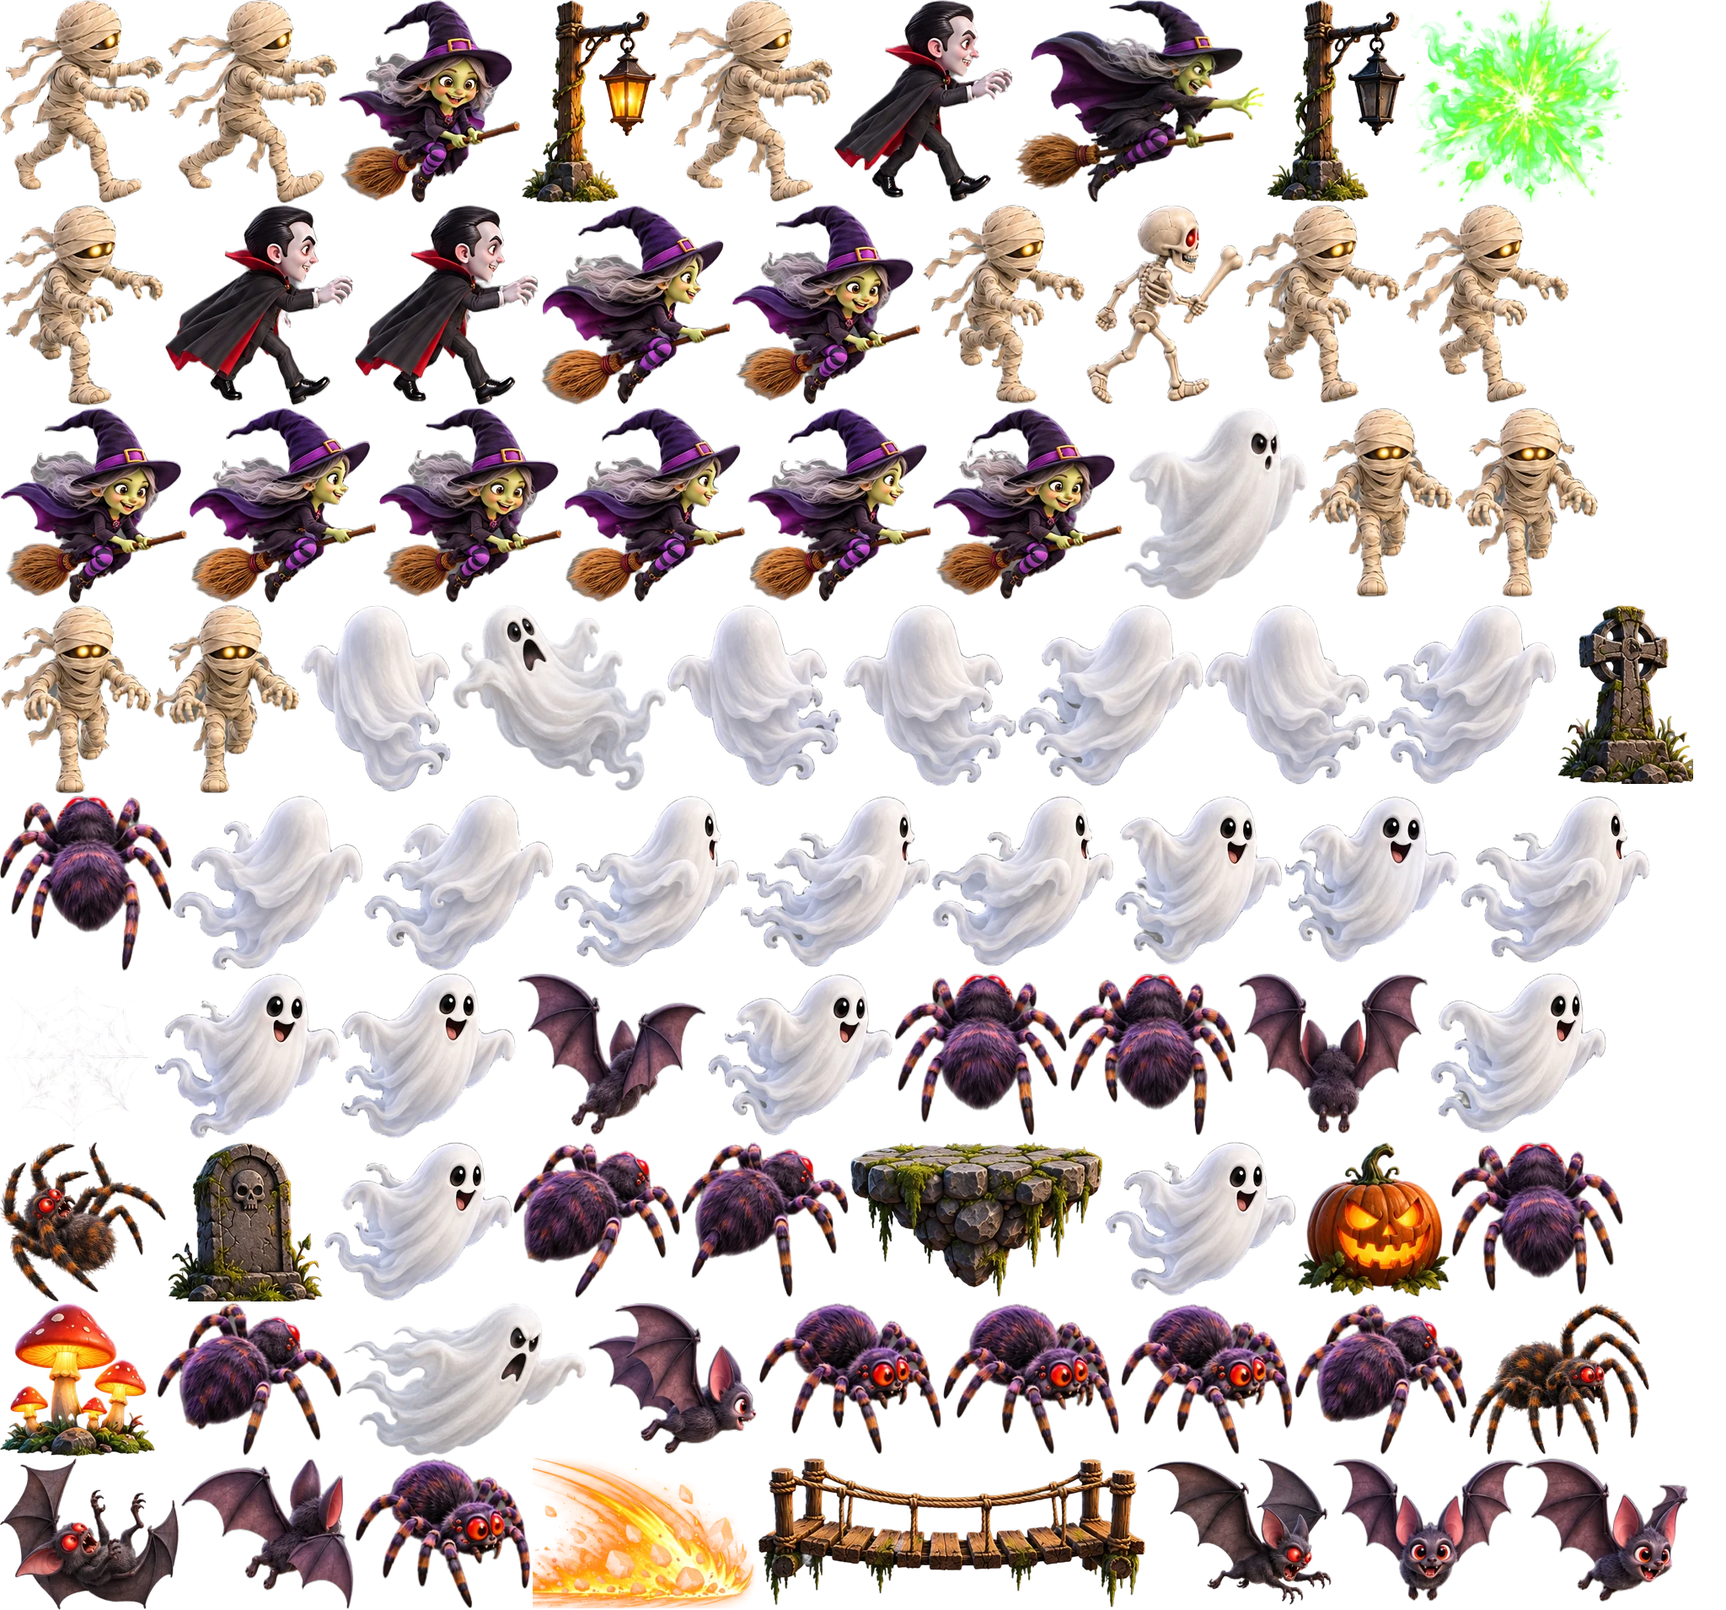
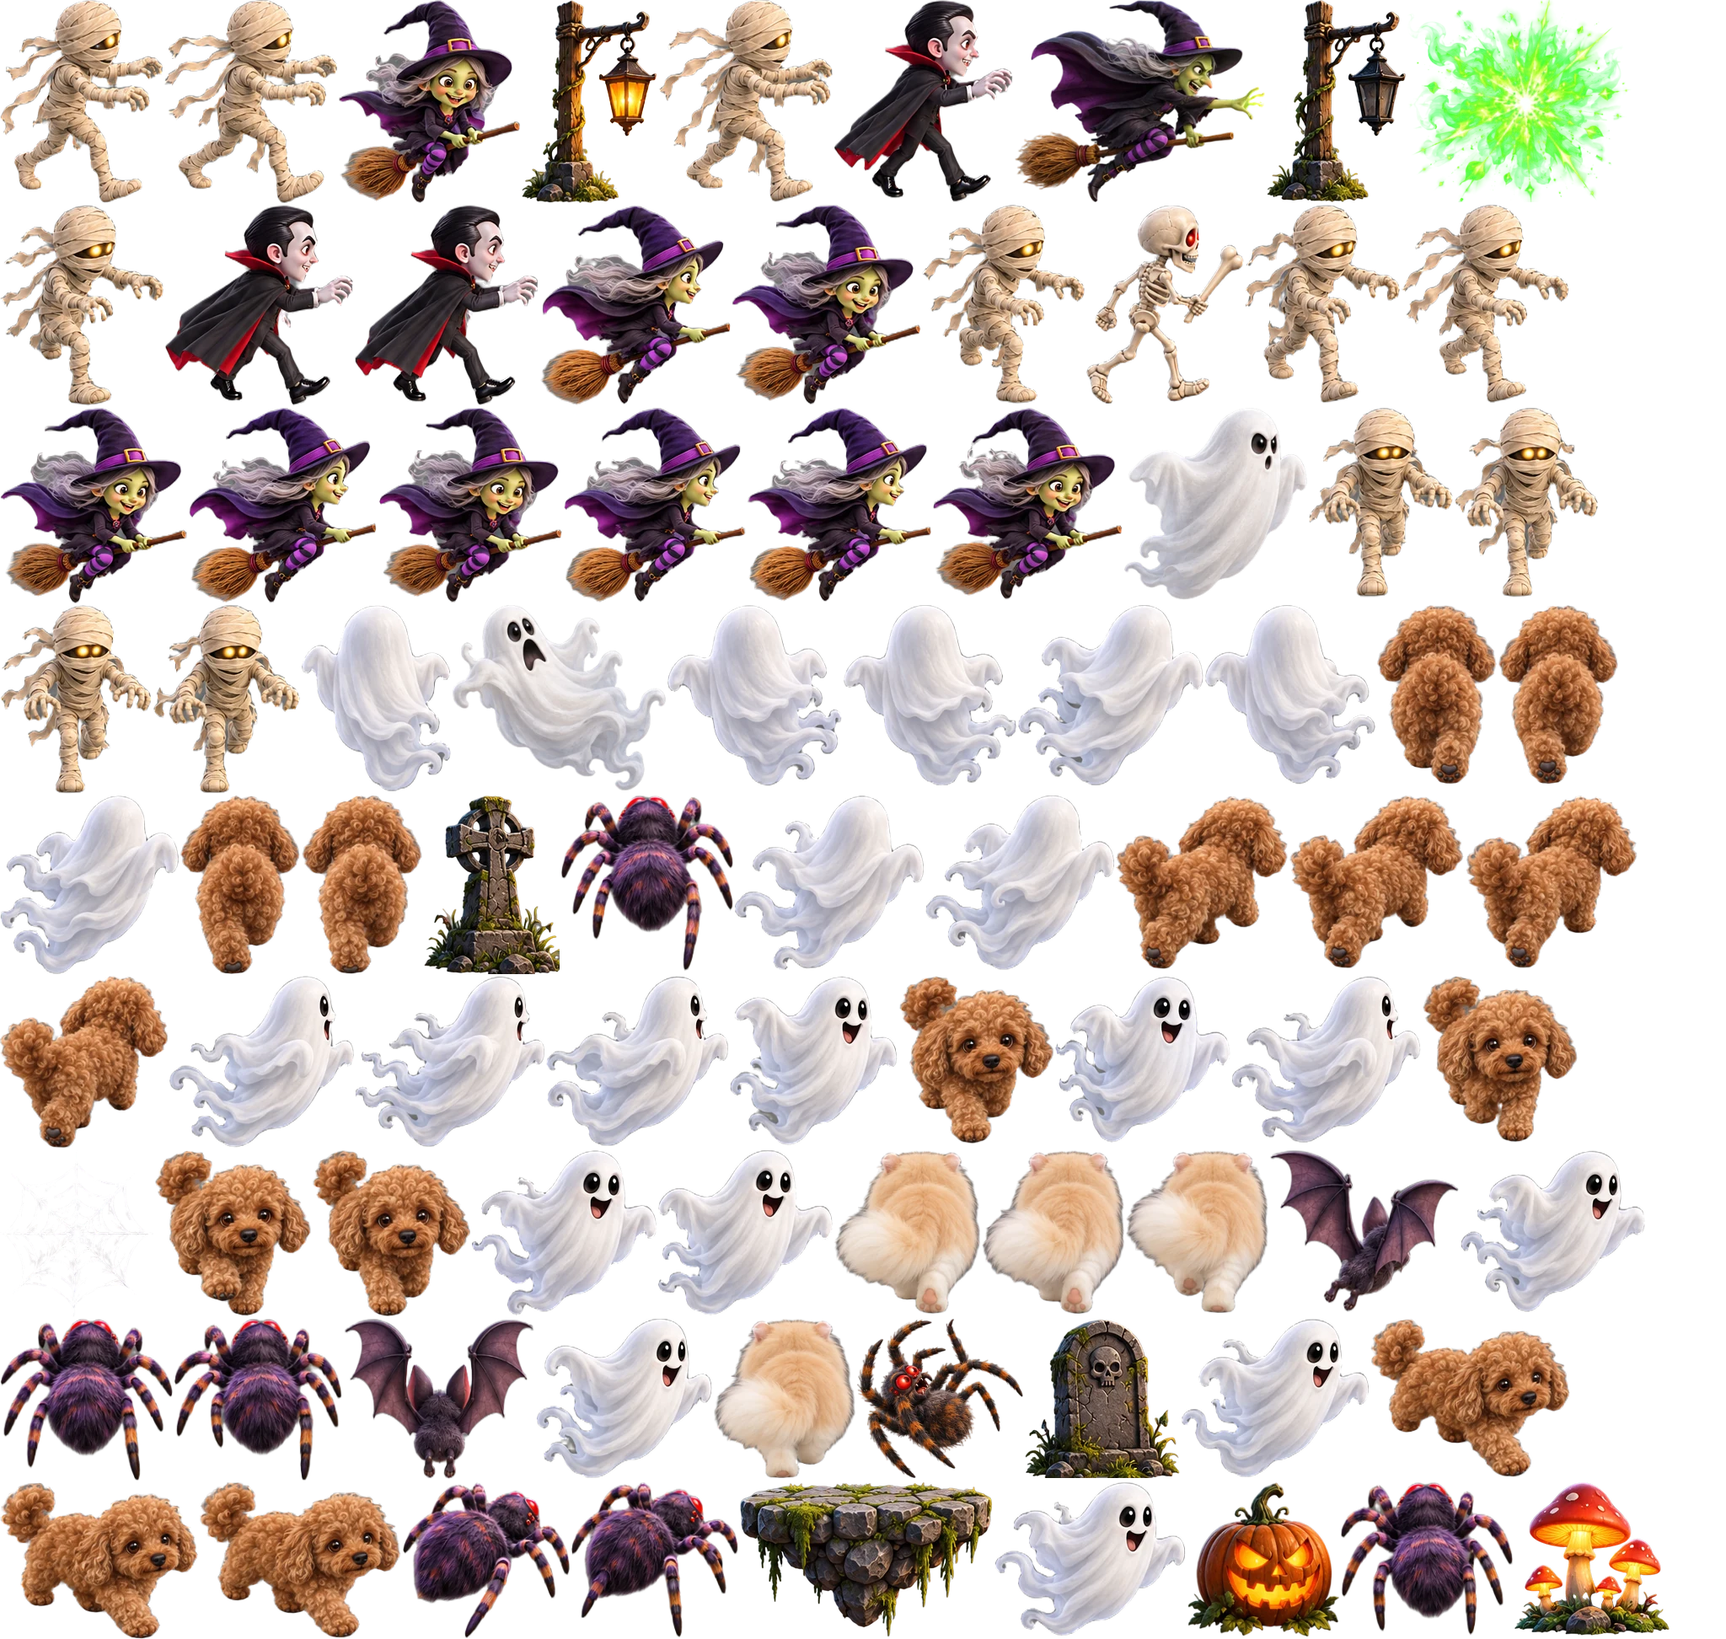
v3: thú cưng thật — mèo tai cụp của Matcha (cào quái), cún poodle của Mochi (sủa đẩy lùi, làm chậm), cứu ở màn 1
Claude-Session: https://claude.ai/code/session_018CdmaGRbzjkocUF5TVUzxd

diff --git a/index.html b/index.html
@@ -335,6 +335,7 @@
   const SFX = {
     zap() { tone("sawtooth", 2000, 420, 0.16, 0.06); tone("sine", 2800, 1200, 0.1, 0.06); },
     hit() { tone("triangle", 700, 380, 0.09, 0.12); noise(0.06, 0.08, 2500, 1); },
+    bark() { [0, 0.13].forEach((w) => { tone("square", 620, 310, 0.09, 0.07, w); noise(0.07, 0.07, 900, 1.5, w); }); },
     pop() { tone("sine", 180, 50, 0.3, 0.3); noise(0.22, 0.2, 1800, 0.6); [2349, 2960, 3520].forEach((f, i) => tone("sine", f, f, 0.22, 0.04, 0.04 + i * 0.05)); },
     hurt() { tone("square", 240, 90, 0.28, 0.1); noise(0.18, 0.1, 400, 1); },
     jump() { tone("sine", 380, 760, 0.14, 0.08); },
@@ -381,19 +382,19 @@
   // kinds: [monster, weight, from] — `from` is the share of the level's ramp (0..1) before it starts to appear.
   // quota: monsters to defeat before the portal (or, in level 4, the arena) opens; the camps along the path give most of them.
   // spawn: monsters per second at start / after the 5-minute ramp. camps: monster camps waiting beside the path.
-  // gr: ground palette. deco: [sprite, weight] scattered beside the path. pet: a caged friend to rescue mid-path.
+  // gr: ground palette. deco: [sprite, weight] scattered beside the path. pets: caged friends to rescue along the path (PETS[k].at).
   const LEVELS = [
-    { name: "Màn 1: Đồng Cỏ Hoàng Hôn", seed: 1101, quota: 120, spawn: [0.7, 1.6], camps: 9,
+    { name: "Màn 1: Đồng Cỏ Hoàng Hôn", seed: 1101, quota: 120, spawn: [0.7, 1.6], camps: 9, pets: ["cat", "dog"],
       kinds: [["zombie", 3, 0], ["bat", 2, 0], ["skeleton", 2, 0.15], ["ghost", 2, 0.35]],
       deco: [["tree", 3], ["bush", 4], ["mushrooms", 1], ["pumpkin2", 1], ["pumpkin3", 1]],
       gr: { base: "#679c4a", patch: ["#84b75c", "#558a3e", "#76a94f"], blade: ["#93c96a", "#4f8a3a", "#a6d77a"], dot: ["#ffd3f0", "#fff3b0", "#ffffff", "#ff9ec7", "#c9b6ff"], nDot: 70,
         stone: ["#e3d4b4", "#d8c7a3", "#cdb995"], gap: "#9c8a6c", edge: "#6f5d44" } },
-    { name: "Màn 2: Rừng Ma", seed: 2207, quota: 140, spawn: [0.8, 1.7], camps: 10, pet: "cat",
+    { name: "Màn 2: Rừng Ma", seed: 2207, quota: 140, spawn: [0.8, 1.7], camps: 10,
       kinds: [["spider", 3, 0], ["ghost", 2, 0], ["bat", 2, 0.1], ["mummy", 2, 0.3]],
       deco: [["tree", 4], ["mushrooms", 4], ["bush", 2], ["pumpkin3", 1]],
       gr: { base: "#3f5340", patch: ["#536b4a", "#2f3f34", "#4d4466", "#45405c"], blade: ["#5f7d55", "#2c3a2e", "#6b5f86"], dot: ["#b9a4ff", "#7cf2c6", "#e0b8ff"], nDot: 45,
         stone: ["#a3a69a", "#959a8c", "#8a9180"], gap: "#5a5e55", edge: "#2a302c" } },
-    { name: "Màn 3: Nghĩa Địa Trăng Máu", seed: 3313, quota: 160, spawn: [0.8, 1.8], camps: 11, pet: "dog",
+    { name: "Màn 3: Nghĩa Địa Trăng Máu", seed: 3313, quota: 160, spawn: [0.8, 1.8], camps: 11,
       kinds: [["skeleton", 3, 0], ["bat", 2, 0], ["mummy", 2, 0.1], ["witch", 1, 0.25], ["vampire", 1, 0.45]],
       deco: [["grave1", 3], ["grave2", 3], ["tree", 1], ["pumpkin3", 1], ["pumpkin1", 1]],
       gr: { base: "#4f4a5a", patch: ["#5d5768", "#423d4c", "#5a5a4a", "#5b4a5e"], blade: ["#6a6577", "#3d3846", "#6e6a52"], dot: ["#d8d0e8", "#ff9ab8"], nDot: 30,
@@ -438,11 +439,14 @@
     g: { name: "Mochi", rgb: "255,120,200", cols: ["#ffb3e0", "#ff9ad5", "#ffd3f0"], cd: 0.34, minCd: 0.12, dmg: 1, range: 680, bolt: 1500, bounce: 0, r: 30 },
     s: { name: "Matcha", rgb: "140,255,140", cols: ["#b8ffb0", "#f0fff0", "#7be04a"], cd: 0.6, minCd: 0.28, dmg: 2, range: 800, bolt: 1150, bounce: 2, r: 42 },
   };
-  // TODO(pets): placeholder friends until their art and details arrive. Pets follow the hero and now and then shoot a small bolt.
+  // Pets: each belongs to one sister, waits in a cage on a level and follows her once rescued.
+  // The cat (Matcha's Scottish Fold) pounces on a monster near her girl and scratches it.
+  // The poodle (Mochi's) barks when monsters come close: they are pushed back and slowed. at: where its cage sits along the path.
   const PETS = {
-    cat: { name: "Mèo", rgb: "255,190,120", col: "#ffcf8a", cd: 1.5, dmg: 1, range: 620 },
-    dog: { name: "Cún", rgb: "150,200,255", col: "#a8d4ff", cd: 1.8, dmg: 2, range: 620 },
+    cat: { name: "Mèo Tai Cụp", owner: "s", at: 0.5, rgb: "255,190,120", col: "#ffcf8a", cd: 1.1, range: 560, tip: "Bạn ấy sẽ đi theo và cào quái giúp Matcha" },
+    dog: { name: "Cún Poodle", owner: "g", at: 0.38, rgb: "200,130,90", col: "#c98a5e", cd: 3.2, range: 380, bark: true, tip: "Bạn ấy sủa đẩy lùi quái và làm chúng chậm lại" },
   };
+  const petDmg = (lv) => 3 + Math.floor(lv * 0.8);
   let hero = "g";
   try { if (localStorage.getItem("dcpt3-hero") === "s") hero = "s"; } catch (e) {}
   const HD = () => HEROES[hero];
@@ -500,7 +504,9 @@
   const IN = { ultPressed: false };
   let progress = 1;
   try { progress = Math.max(1, Math.min(4, +localStorage.getItem("dcpt3-progress") || 1)); } catch (e) {}
-  try { P.pets = (localStorage.getItem("dcpt3-pets") || "").split(",").filter((k) => PETS[k]); } catch (e) {}
+  // rescued pets, kept per sister
+  function loadPets() { try { P.pets = (localStorage.getItem("dcpt3-pets-" + hero) || "").split(",").filter((k) => PETS[k] && PETS[k].owner === hero); } catch (e) { P.pets = []; } }
+  loadPets();
 
   // ---------------------------------------------------------------- map generation
   // A winding path: Catmull-Rom spline through 10-14 control points zig-zagging across the world, resampled every STEP units.
@@ -614,7 +620,7 @@
     const offAt = (s, side, off) => { const i = clamp(Math.round(s / STEP), 0, endI), [dx, dy] = pathDir(i); return [path.x[i] - dy * side * off, path.y[i] + dx * side * off]; };
     G.chests = [];
     for (const f of [0.14, 0.3, 0.46, 0.62, 0.78, 0.92]) {
-      if (L.pet && Math.abs(f - 0.5) < 0.06) continue;
+      if ((L.pets || []).some((k) => Math.abs(f - PETS[k].at) < 0.06)) continue;
       const [x, y] = offAt(f * path.len, R() < 0.5 ? -1 : 1, PATH_W * 0.28 + R() * 30);
       G.chests.push({ x, y, open: false, t: 0 });
     }
@@ -633,7 +639,11 @@
     // the gate wants about as many monsters as the camps hold, so walking the path is enough
     G.quota = Math.round(G.camps.reduce((a, c) => a + c.n, 0) * 0.9);
     G.cages = [];
-    if (L.pet) { const [x, y] = offAt(0.5 * path.len, R() < 0.5 ? -1 : 1, PATH_W / 2 + 70); G.cages.push({ kind: L.pet, x, y, open: false, t: 0 }); }
+    // a cage only when its sister plays (in co-op always, so both pages build the same level)
+    for (const k of L.pets || []) {
+      const [x, y] = offAt(PETS[k].at * path.len, R() < 0.5 ? -1 : 1, PATH_W / 2 + 70), own = PETS[k].owner === hero;
+      if (NET.role || (own && !P.pets.includes(k))) G.cages.push({ kind: k, x, y, open: false, t: 0 });
+    }
     G.items = [];
     for (let s = 500; s < path.len - 300; s += 380 + R() * 160) {
       const side = R() < 0.5 ? -0.25 : 0.25, candy = R() < 0.18;
@@ -1454,7 +1464,9 @@
       const T = nearestGirl(c.x, c.y, 140);
       if (!T) continue;
       c.open = true; openCageFx(c);
-      if (T === P) rescuePet(c.kind); else netEmit("pet", { to: NET.partner, k: c.kind });
+      // the pet goes to the sister it belongs to, whoever opened the cage
+      const owner = PETS[c.kind].owner, mine = hero === owner && (T === P || !Q || Q.hero !== owner);
+      if (mine) rescuePet(c.kind); else if (Q && Q.hero === owner) netEmit("pet", { to: NET.partner, k: c.kind });
     }
     for (const it of G.items) {
       if (it.got) continue;
@@ -1484,17 +1496,34 @@
   function rescuePet(kind) {
     if (!P.pets.includes(kind)) {
       P.pets.push(kind);
-      try { localStorage.setItem("dcpt3-pets", P.pets.join(",")); } catch (e) {}
+      try { localStorage.setItem("dcpt3-pets-" + hero, P.pets.join(",")); } catch (e) {}
       makePetEnts();
     }
-    showBanner("Bé đã cứu bạn " + PETS[kind].name + "!", "Bạn ấy sẽ đi theo và bắn giúp bé");
+    showBanner(HD().name + " đã cứu " + PETS[kind].name + "!", PETS[kind].tip);
   }
 
-  // ---------------------------------------------------------------- pets (TODO: real art and abilities)
+  // ---------------------------------------------------------------- pets
+  // st: "follow" trails the girl; "pounce" runs at a monster near her and scratches it, then follows again
   let PETE = [], QPETE = [];
-  function makePetEnts() { PETE = P.pets.map((k, i) => ({ kind: k, x: P.x - 80 - i * 50, y: P.y + 40, face: 0, flip: false, cd: 1 + i * 0.5, dist: 0, i })); }
-  function followPets(list, owner, dt, shoot) {
+  function makePetEnts() { PETE = P.pets.map((k, i) => ({ kind: k, x: P.x - 80 - i * 50, y: P.y + 40, face: 0, flip: false, cd: 1 + i * 0.5, dist: 0, i, st: "follow" })); }
+  function followPets(list, owner, dt, act) {
     for (const p of list) {
+      p.scr = (p.scr || 0) - dt;
+      if (act && p.st === "pounce") {
+        const T = p.tgt, B = G.boss, dead = !T || (T === B ? !B || !B.alive : !T.alive);
+        if (dead || d2(p.x, p.y, owner.x, owner.y) > 900 * 900) { p.st = "follow"; p.cd = 0.4; }
+        else {
+          const dx = T.x - p.x, dy = T.y - p.y, d = Math.hypot(dx, dy) || 1, reach = T === B ? 150 : T.r + 40;
+          if (d > reach) { const sp = Math.min(d - reach + 1, 950 * dt); p.x += dx / d * sp; p.y += dy / d * sp; p.dist += sp; setFace(p, dx, dy); p.moving = true; continue; }
+          // scratch!
+          setFace(p, dx, dy); p.moving = false; p.scr = 0.3; p.st = "follow"; p.cd = PETS[p.kind].cd;
+          const dmg = petDmg(P.lv);
+          if (T === B) hitBoss(null, T.x, T.y); else hitMon(T, dmg, null, p.x, p.y, 90);
+          G.parts.push({ type: "claw", x: (p.x + T.x) / 2, y: (p.y + T.y) / 2 - 70, vx: 0, vy: 0, rot: Math.atan2(dy, dx), life: 0.3, max: 0.3 });
+          play("hit");
+          continue;
+        }
+      }
       // trail behind the girl, one on each side
       const side = p.i % 2 ? 1 : -1, back = 120 + Math.floor(p.i / 2) * 60;
       const fx = owner.flip ? 1 : -1, tx = owner.x + fx * back * 0.8 + side * 30, ty = owner.y + side * 70;
@@ -1503,15 +1532,24 @@
       const sp = Math.min(d * 3.2, 560) * dt;
       if (d > 4) { p.x += dx / d * sp; p.y += dy / d * sp; p.dist += sp; if (sp > 1) setFace(p, dx, dy); }
       p.moving = sp > 40 * dt;
-      if (!shoot) continue;
-      const D = PETS[p.kind];
-      if ((p.cd -= dt) > 0) continue;
-      const T = nearestFoes(p.x, p.y, D.range, 1)[0];
+      if (!act || (p.cd -= dt) > 0) continue;
+      if (PETS[p.kind].bark) { bark(p, owner); continue; }
+      const T = nearestFoes(owner.x, owner.y, PETS[p.kind].range, 1)[0];
       if (!T) { p.cd = 0.3; continue; }
-      p.cd = D.cd;
-      const a = Math.atan2(T.y - p.y, T.x - p.x);
-      G.shots.push({ x: p.x, y: p.y + 40, vx: Math.cos(a) * 1100, vy: Math.sin(a) * 1100, life: D.range / 1100 + 0.1, r: 24, dmg: D.dmg, bounce: 0, hit: null, elem: null, hk: hero, pet: p.kind });
+      p.st = "pounce"; p.tgt = T;
     }
+  }
+
+  // the poodle's bark: when monsters come close to her girl, a ring of sound pushes them back and slows them
+  function bark(p, owner) {
+    const D = PETS[p.kind], rr = D.range * D.range, near = G.mons.filter((m) => m.alive && (d2(m.x, m.y, p.x, p.y) < rr || d2(m.x, m.y, owner.x, owner.y) < rr * 0.6));
+    if (!near.length) { p.cd = 0.3; return; }
+    p.cd = D.cd; p.scr = 0.3;
+    const kb = 260 + 10 * P.lv;
+    for (const m of near) { if (NET.role !== "guest" && m.st === "prep") m.st = "walk"; hitMon(m, 1, "ice", p.x, p.y, kb); }   // a bark also breaks a wind-up
+    G.parts.push({ type: "ring", x: p.x, y: p.y - 50, r: 40, vr: 1300, life: 0.35, max: 0.35, col: "255,230,190" });
+    G.parts.push({ type: "text", x: p.x, y: p.y - 140, vx: 0, vy: -110, life: 0.8, max: 0.8, txt: "Gâu!" });
+    SFX.bark();
   }
 
   // ---------------------------------------------------------------- boss (level 4)
@@ -2022,9 +2060,14 @@
     ctx.restore();
   }
   function drawPet(p) {
-    const D = PETS[p.kind], pre = `pet_${p.kind}_d${p.face}_`, n = dirN(pre);
-    if (n) { shadow(p.x, p.y, 34, 10); spr(pre + (p.moving ? Math.floor(p.dist / 120 * n) % n : 0), p.x, p.y, p.flip, CHAR_M); return; }
-    // TODO(pets): placeholder until the pet art arrives — a glowing bubble with a paw print
+    const D = PETS[p.kind], pre = `pet_${p.kind}_d${p.face}_w`, n = dirN(pre);
+    if (n) {
+      const ph = p.dist / 150 * TAU, hop = p.moving ? Math.abs(Math.sin(ph)) * 6 : 0, lunge = p.scr > 0 ? Math.sin(p.scr / 0.3 * Math.PI) * 14 : 0;
+      shadow(p.x, p.y, 44, 12);
+      spr(pre + (p.moving ? Math.floor(p.dist / 150 * n) % n : 0), p.x, p.y - hop - lunge, p.flip, CHAR_M * (p.sc || 1));
+      return;
+    }
+    // no art for this pet yet: a glowing bubble with a paw print
     const bob = Math.abs(Math.sin(G.t * 6 + p.i * 1.7)) * (p.moving ? 16 : 5), y = p.y - 48 - bob;
     shadow(p.x, p.y, 30, 9, 0.25);
     glow(p.x, y, 80, D.rgb, 0.55);
@@ -2045,7 +2088,7 @@
     shadow(c.x, c.y, 70, 16);
     if (!c.open) {
       glow(c.x, c.y - 100, 160, D.rgb, 0.35 + 0.12 * Math.sin(G.t * 3));
-      drawPet({ kind: c.kind, x: c.x, y: c.y - 30, face: 0, flip: false, moving: false, i: 0, dist: 0 });
+      drawPet({ kind: c.kind, x: c.x, y: c.y - 22, face: 0, flip: false, moving: false, i: 0, dist: 0, sc: 0.72 });
       spr(PROPS.cage, c.x, c.y);
       label("Cứu bạn " + D.name + "!", c.x, c.y - 230, 36);
     } else spr(PROPS.cageOpen, c.x, c.y, false, 1, 0.85);
@@ -2233,6 +2276,16 @@
       else if (p.type === "dust") { ctx.globalAlpha = 1; spr("fx_smoke", p.x, p.y, p.x % 2 > 1, p.r / 34, a * 0.55); }
       else if (p.type === "fx") { ctx.globalAlpha = 1; fx(p.name, p.x, p.y, p.sc * (1 + (1 - a) * (p.grow || 0.6)), a, p.rot || 0, !!p.flip); }
       else if (p.type === "ring") { ctx.globalAlpha = a; ctx.strokeStyle = `rgba(${p.col},1)`; ctx.lineWidth = 26 * a + 4; ctx.beginPath(); ctx.arc(p.x, p.y, p.r, 0, TAU); ctx.stroke(); }
+      else if (p.type === "claw") {
+        // three quick scratch marks
+        ctx.save(); ctx.translate(p.x, p.y); ctx.rotate(p.rot + Math.PI / 2); ctx.globalAlpha = a; ctx.lineCap = "round";
+        const k = 1 - a * 0.6;
+        for (let j = -1; j <= 1; j++) {
+          ctx.strokeStyle = "rgba(255,170,90,.9)"; ctx.lineWidth = 16; ctx.beginPath(); ctx.moveTo(j * 26 - 30 * k, -46 * k); ctx.quadraticCurveTo(j * 26 + 12, 0, j * 26 - 30 * k, 46 * k); ctx.stroke();
+          ctx.strokeStyle = "#fff"; ctx.lineWidth = 6; ctx.stroke();
+        }
+        ctx.restore();
+      }
       else if (p.type === "text") {
         ctx.globalAlpha = a; ctx.font = "800 44px Grandstander, system-ui"; ctx.textAlign = "center"; ctx.lineWidth = 7; ctx.strokeStyle = "rgba(40,20,0,.7)"; ctx.fillStyle = "#ffd34d";
         ctx.strokeText(p.txt, p.x, p.y); ctx.fillText(p.txt, p.x, p.y);
@@ -2417,7 +2470,7 @@
       const k2 = f.s * sc, g = c.getContext("2d");
       g.drawImage(f.img, f.sx, f.sy, f.w, f.h, c.width / 2 - f.ax * k2, c.height - f.ay * k2, f.w * k2, f.h * k2);
       b.append(c, h.name);
-      b.addEventListener("click", () => { hero = k; try { localStorage.setItem("dcpt3-hero", k); } catch (e) {} renderHeroes(); });
+      b.addEventListener("click", () => { hero = k; try { localStorage.setItem("dcpt3-hero", k); } catch (e) {} loadPets(); renderHeroes(); });
       box.append(b);
     }
   }
@@ -2728,7 +2781,7 @@
         else if (["star", "candy"].includes(d.ty)) pickItem(d.ty, x, y);
       } else if (msg.topic === "gain") addEnergy(clamp(num(d.n), 0, 30), num(d.x), num(d.y));
       else if (msg.topic === "xp") { gainXp(clamp(Math.floor(num(d.n)), 0, 200)); play("gem"); }
-      else if (msg.topic === "pet" && PETS[d.k]) rescuePet(d.k);
+      else if (msg.topic === "pet" && PETS[d.k] && PETS[d.k].owner === hero) rescuePet(d.k);
     }
   }
   // presence: my girl (both roles) plus the world (host), about 20 times a second
@@ -2797,7 +2850,7 @@
     Q.fn = fn.startsWith(Q.skin + "_") && FR[fn] ? fn : fn.includes("_") && FR[base] ? base : FR[Q.hero + "_stand"] ? Q.hero + "_stand" : "";
     Q.dead = !!(b & 1); Q.inv = !!(b & 2); Q.slow = !!(b & 4); Q.cast = !!(b & 8); Q.win = !!(b & 16); Q.flip = !!(b & 32);
     Q.elem = ELS[num(gl[5])] || null; Q.ultT = num(gl[6]) / 10; Q.hearts = clamp(num(gl[8]), 0, 5);
-    Q.pets = typeof gl[12] === "string" ? gl[12].split(",").filter((k) => PETS[k]) : [];
+    Q.pets = typeof gl[12] === "string" ? gl[12].split(",").filter((k) => PETS[k]) : [];   // their pets (shown following them)
     Q.lv = clamp(Math.floor(num(gl[13])) || 1, 1, MAX_LV);
     Q.hostInv -= dt;
   }
@@ -3014,7 +3067,7 @@
     G, P, IN, joy, keys, NET, FR, LEVELS, MON, HEROES, PETS, startGame, buildLevel, toTitle,
     autopilot: false,
     getQ: () => Q,
-    setHero: (k) => { hero = k === "s" ? "s" : "g"; renderHeroes(); },
+    setHero: (k) => { hero = k === "s" ? "s" : "g"; loadPets(); renderHeroes(); },
     refreshFrames: () => DIRN.clear(),   // call after adding frames to FR at run time
     heroFrame, monFrame, guideTarget, heroStats, xpNeed, gainXp, addEnergy, startUlt, rescuePet,
     spawnMon: (kind, x, y) => spawnMon(kind, x === undefined ? P.x + 400 : x, y === undefined ? P.y : y),
